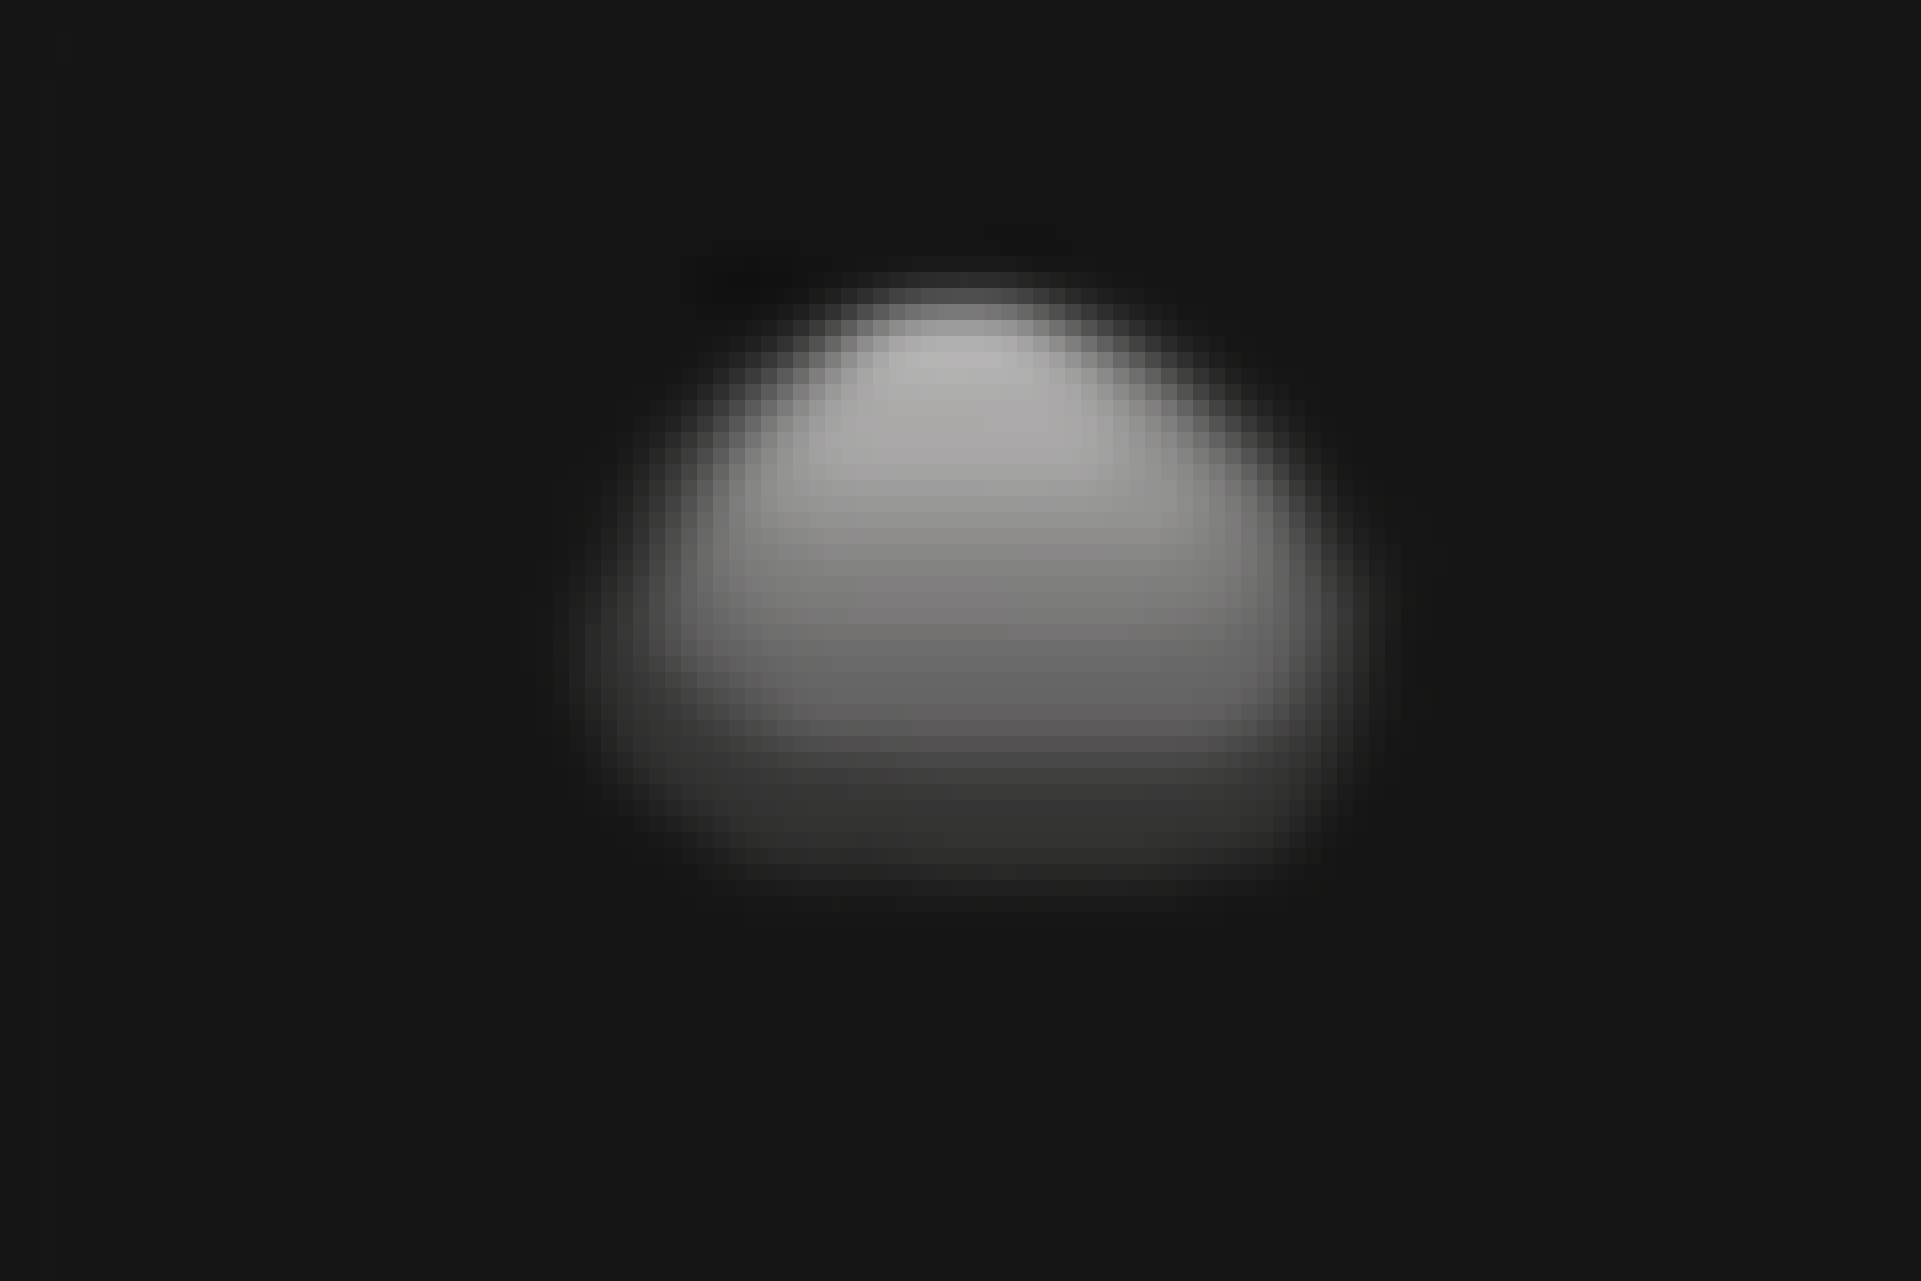
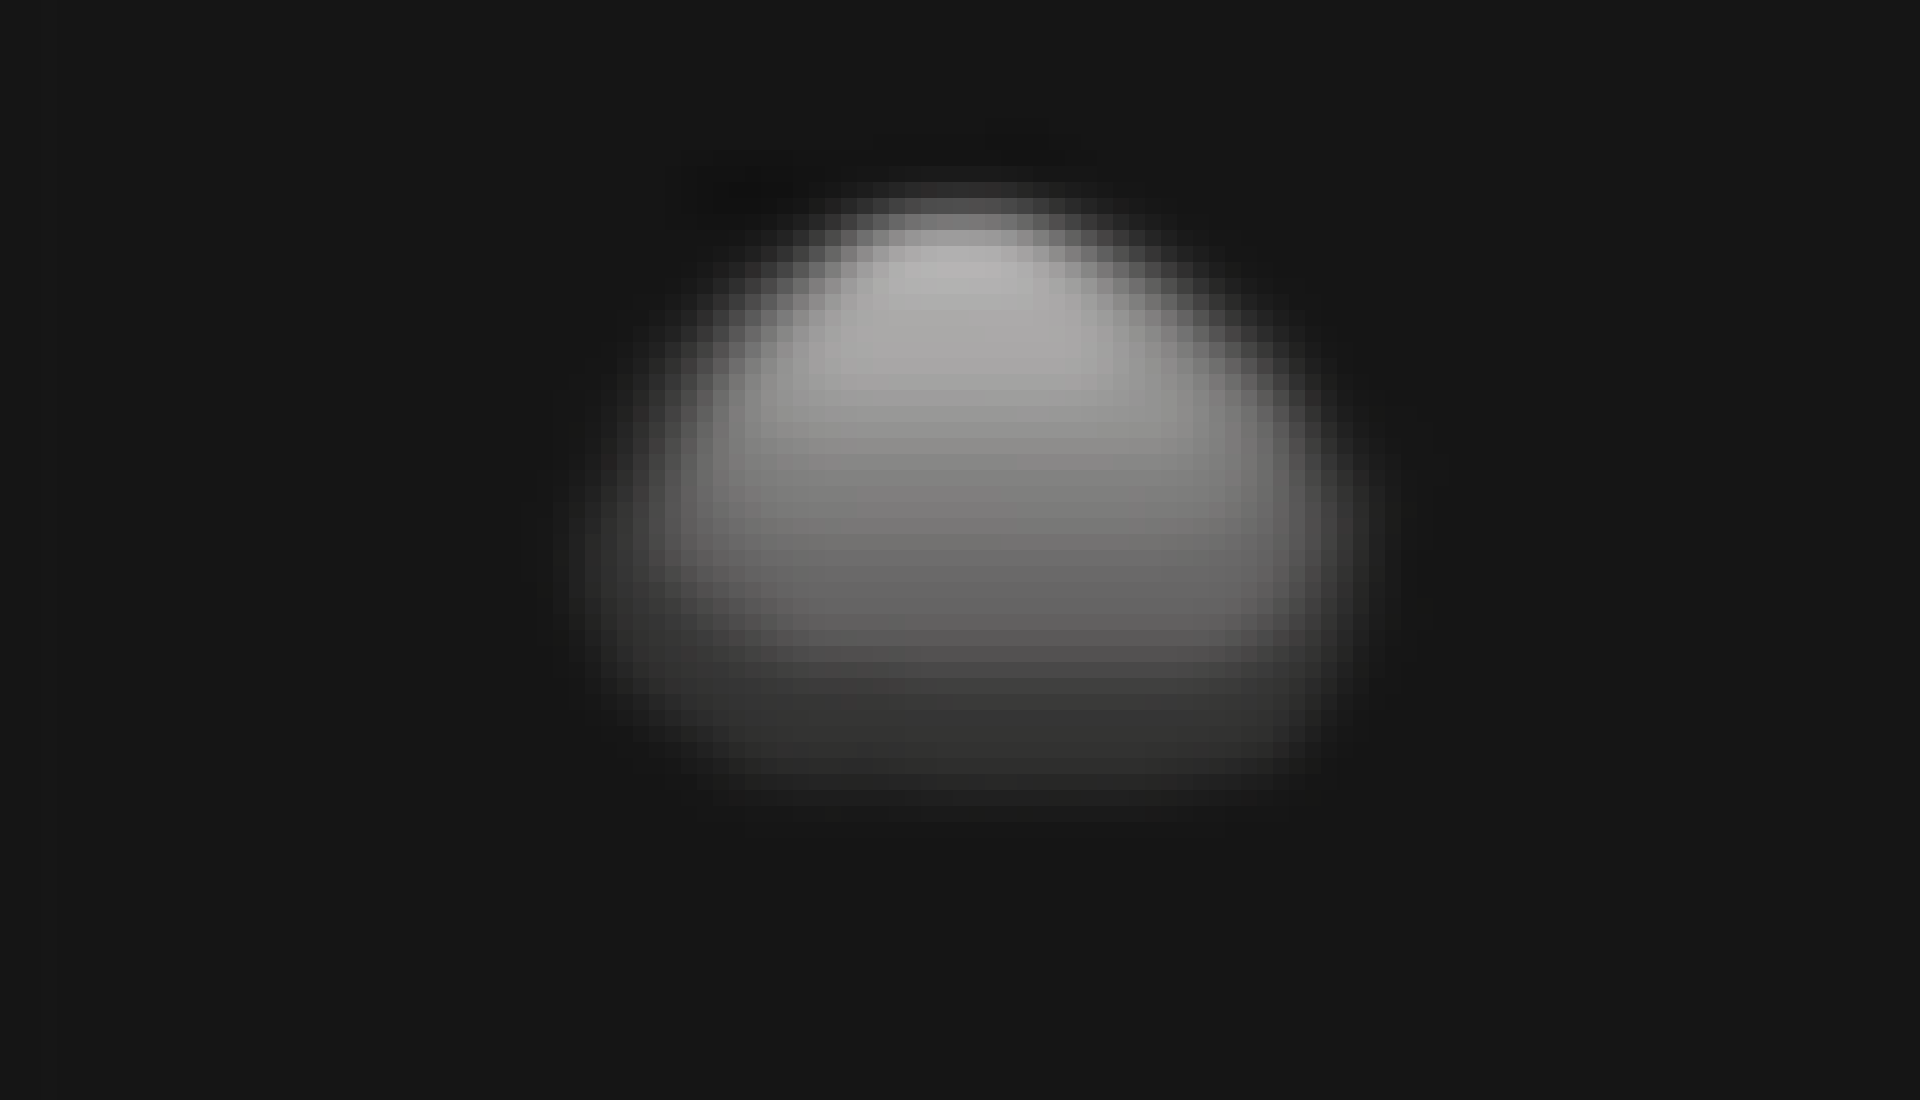
background, one step closer to the ending

Changed region(s): [[0.375, 0.1545, 0.6562, 0.3709]]

diff --git a/style.css b/style.css
@@ -43,6 +43,7 @@
     border-radius: 8px !important;
 }
 */
+
 @font-face {
     font-family: 'Jersey 20';
     src: url('./fonts/Jersey20.ttf') format('truetype');
@@ -56,9 +57,8 @@ footer {
 
 .white-box {
     background-color: white;
-    border-radius: 10px;
     box-shadow: 0 4px 6px rgba(0, 0, 0, 0.1);
-    height: "42vw";
+    height: "36vw";
     border-radius: 0px !important;
 }
 
@@ -123,7 +123,7 @@ footer {
     font-family: 'Jersey 20', monospace; /* Use Roboto font */
     font-size: 20px; /* Adjust font size */
     color: #333; /* Adjust color as needed */
-    margin: 10px 0; /* Optional spacing */
+    margin-top: 20px; /* Optional spacing */
     text-align: center; /* Optional alignment */
 }
 .scale {
@@ -134,11 +134,11 @@ footer {
     border-radius: 0px !important;
 }
 .logo{
-    width: 100px; /* Set the desired width */
-    height: auto; /* Maintain aspect ratio */
+    width: 110% !important; /* Set the desired width */
+    height: 110%; /* Maintain aspect ratio */
     border-radius: 0px !important;
 
 }
 .logo-box{
-    height: "12vw"
+    height: "6vw"
 }

diff --git a/main.py b/main.py
@@ -95,8 +95,11 @@ def response(history):
 
 def user(message, history):
     global message_counter
-    message_counter -= 1
-    return "", history + [{"role": "user", "content": message}], f"{message_counter} messages left"
+    if message_counter > 0:
+        message_counter -= 1
+        return "", history + [{"role": "user", "content": message}], f"{message_counter} messages left"
+    else:
+        return "", history + [{"role": "user", "content": message}], f"game over"
 
         
 is_visible_up = None
@@ -132,7 +135,7 @@ def change_detective_picture(history):
     
 
 def main():
-    with open("./avatar_images/background_intergorationroom.png", "rb") as image_file:
+    with open("./avatar_images/background_b2_wide.jpg", "rb") as image_file:
         encoded_string = base64.b64encode(image_file.read()).decode()
 
     with open("./startpage/mouse_o.png", "rb") as image_file:
@@ -157,9 +160,9 @@ def main():
     with gr.Blocks(css=custom_css, css_paths="./style.css", theme=theme, fill_height=True) as chatinterface:
         with gr.Row(equal_height=True):  # Equal_width argument
             with gr.Column(): # First column for hints
-                with gr.Row(elem_classes="logo-box", visible=True):
-                    logo = gr.Image(value="./avatar_images/logo.png", elem_classes="logo", show_label= False, show_download_button= False)
-                with gr.Row(elem_classes="white-box", visible=True):
+                with gr.Row(elem_classes="logo-box", visible=True, max_height="6.5vw"):
+                    logo = gr.Image(value="./avatar_images/logo.png", elem_classes="logo", show_label= False, show_download_button= False, container=False, show_fullscreen_button=False)
+                with gr.Row(elem_classes="white-box", visible=True, min_height="34vw" ):
                     gr.Markdown("## Here are your tips:", elem_classes="heading"),
                     up_image = gr.Image(value="./hint_pics/hint_3.jpg", elem_classes="fixed-image-up", show_label= False, show_download_button= False, visible=False)
                     mid_image = gr.Image(value="./hint_pics/hint_6.jpg", elem_classes="fixed-image-mid", show_label= False, show_download_button= False, visible=False)
